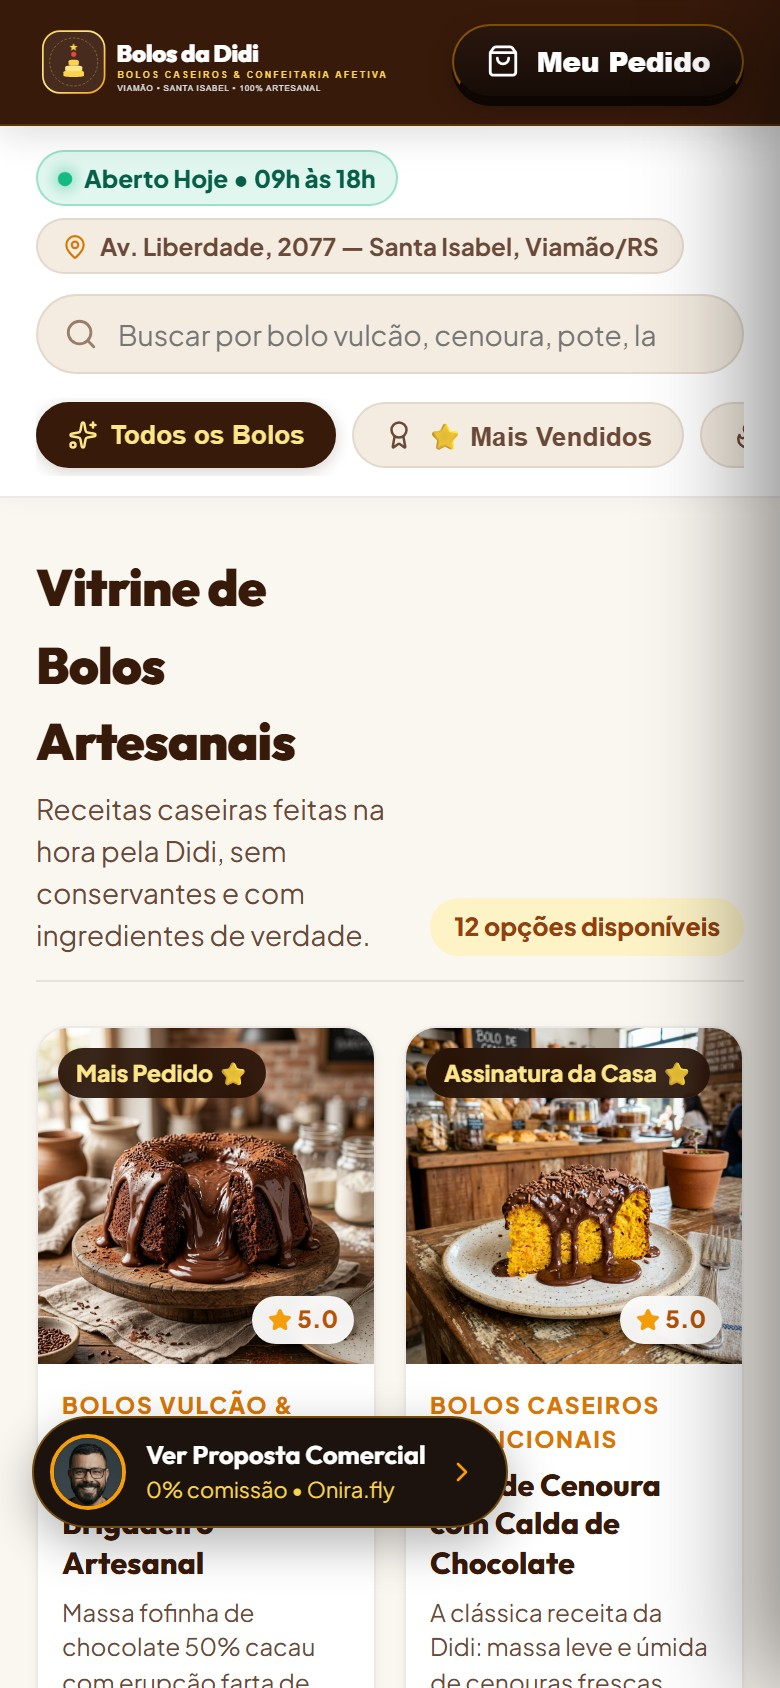
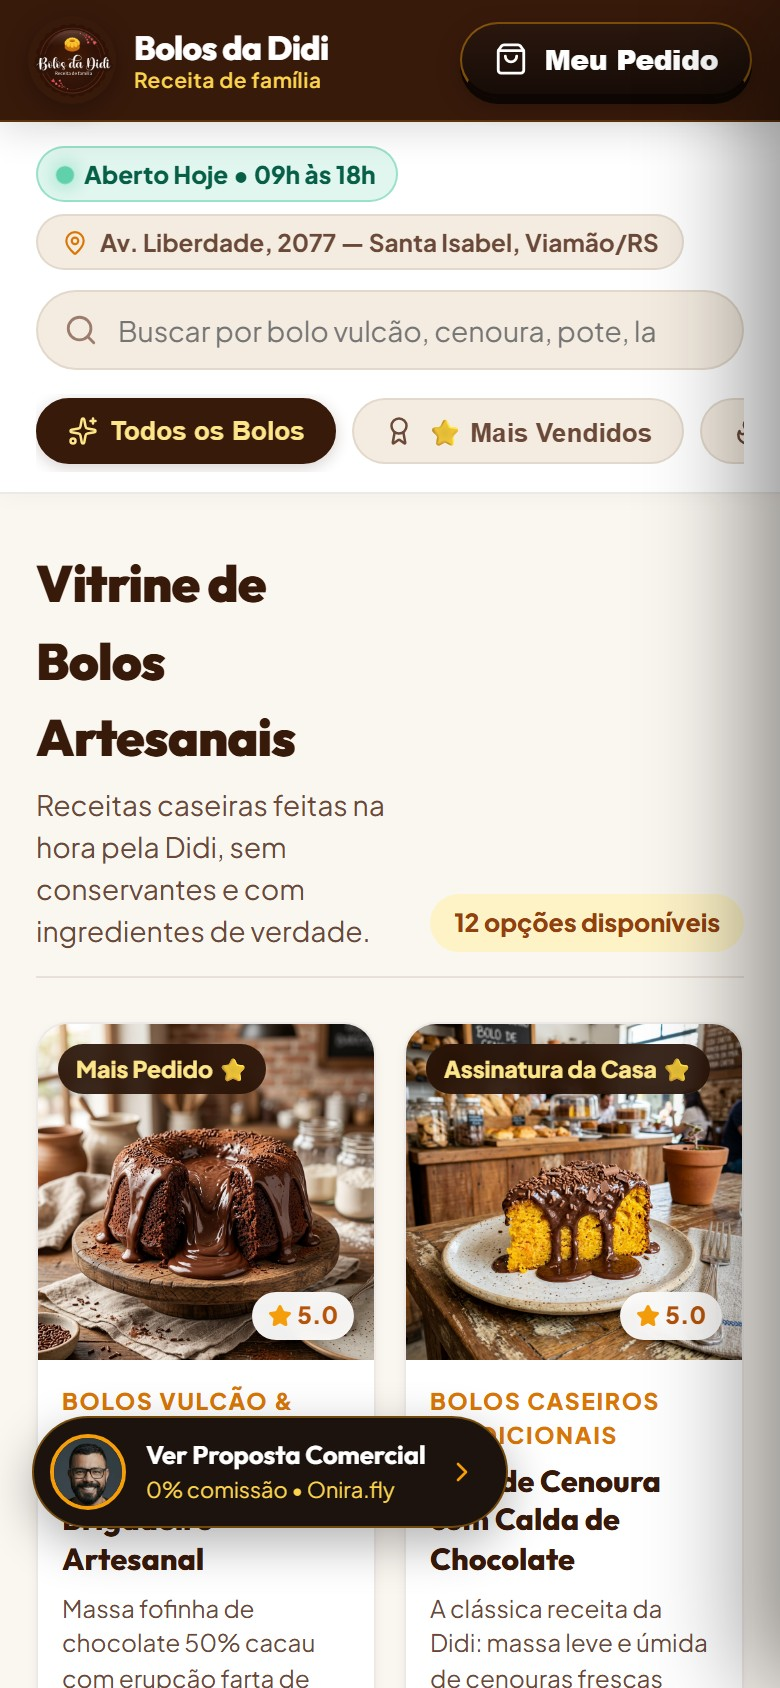
commit

diff --git a/style.css b/style.css
@@ -96,13 +96,20 @@ body {
   top: 0;
   z-index: 100;
   box-shadow: 0 4px 18px rgba(0, 0, 0, 0.14);
+  transition: transform 0.32s cubic-bezier(0.16, 1, 0.3, 1), box-shadow 0.25s ease;
+  will-change: transform;
+}
+
+.header-main.header-hidden {
+  transform: translateY(-100%);
+  box-shadow: none;
 }
 
 .header-container {
   display: flex;
   justify-content: space-between;
   align-items: center;
-  padding: 11px 18px;
+  padding: 10px 18px;
   gap: 12px;
 }
 
@@ -111,13 +118,46 @@ body {
   align-items: center;
   text-decoration: none;
   flex-shrink: 0;
+  gap: 11px;
 }
 
 .brand-logo-img {
-  height: 48px;
-  width: auto;
-  max-width: 240px;
-  object-fit: contain;
+  height: 50px;
+  width: 50px;
+  border-radius: 50%;
+  object-fit: cover;
+  box-shadow: 0 3px 12px rgba(0, 0, 0, 0.3);
+  transition: transform 0.2s ease;
+  flex-shrink: 0;
+}
+
+.brand-link:hover .brand-logo-img {
+  transform: scale(1.05);
+}
+
+.brand-identity {
+  display: flex;
+  flex-direction: column;
+  justify-content: center;
+  line-height: 1.15;
+}
+
+.brand-name {
+  font-family: var(--font-heading);
+  font-size: 1.16rem;
+  font-weight: 800;
+  color: #FFFFFF;
+  letter-spacing: -0.02em;
+  white-space: nowrap;
+}
+
+.brand-tagline {
+  font-family: var(--font-body);
+  font-size: 0.72rem;
+  font-weight: 600;
+  color: #FCD34D;
+  letter-spacing: 0.03em;
+  white-space: nowrap;
 }
 
 .header-actions {
@@ -212,6 +252,11 @@ body {
   top: 71px;
   z-index: 90;
   box-shadow: 0 2px 10px rgba(0, 0, 0, 0.03);
+  transition: top 0.32s cubic-bezier(0.16, 1, 0.3, 1);
+}
+
+body.header-is-hidden .catalog-filters-section {
+  top: 0 !important;
 }
 
 .search-top-badges {
@@ -1469,9 +1514,21 @@ body {
    RESPONSIVIDADE MOBILE FIRST
    ========================================================================== */
 @media (max-width: 768px) {
+  .header-container {
+    padding: 8px 14px;
+  }
+  .brand-link {
+    gap: 9px;
+  }
   .brand-logo-img {
-    height: 40px;
-    max-width: 180px;
+    height: 44px;
+    width: 44px;
+  }
+  .brand-name {
+    font-size: 1.05rem;
+  }
+  .brand-tagline {
+    font-size: 0.65rem;
   }
   .search-top-badges {
     flex-direction: column;
@@ -1479,7 +1536,7 @@ body {
     gap: 6px;
   }
   .catalog-filters-section {
-    top: 62px;
+    top: 61px;
   }
   .products-grid {
     grid-template-columns: repeat(auto-fill, minmax(165px, 1fr));

diff --git a/index.html b/index.html
@@ -15,6 +15,11 @@
   <meta property="og:image" content="assets/bolo_vulcao_chocolate.jpg">
   <meta property="og:locale" content="pt_BR">
 
+  <!-- Favicon & Touch Icon -->
+  <link rel="icon" type="image/png" sizes="32x32" href="assets/favicon-didi.png">
+  <link rel="icon" type="image/png" sizes="64x64" href="assets/favicon-didi-64.png">
+  <link rel="apple-touch-icon" href="assets/logo_didi_oficial.png">
+
   <!-- Google Fonts: Outfit & Plus Jakarta Sans -->
   <link rel="preconnect" href="https://fonts.googleapis.com">
   <link rel="preconnect" href="https://fonts.gstatic.com" crossorigin>
@@ -23,7 +28,7 @@
   <!-- Lucide Icons -->
   <script src="https://unpkg.com/lucide@latest"></script>
 
-  <link rel="stylesheet" href="style.css?v=20261009-v2">
+  <link rel="stylesheet" href="style.css?v=20261021-v3">
 </head>
 <body class="theme-onirafly">
 
@@ -33,9 +38,13 @@
        ========================================================================== -->
   <header class="header-main" id="header">
     <div class="container header-container">
-      <!-- Lado Esquerdo: Logo da Marca -->
+      <!-- Lado Esquerdo: Logo da Marca Oficial Bolos da Didi -->
       <a href="index.html" class="brand-link" aria-label="Bolos da Didi Página Inicial">
-        <img src="assets/logo-white.svg" alt="Bolos da Didi Logo Oficial" class="brand-logo-img">
+        <img src="assets/logo_didi_oficial.png" alt="Bolos da Didi Logo Oficial" class="brand-logo-img">
+        <div class="brand-identity">
+          <span class="brand-name">Bolos da Didi</span>
+          <span class="brand-tagline">Receita de família</span>
+        </div>
       </a>
 
       <!-- Lado Direito: Apenas Lixeira Outline e Botão Meu Pedido -->
@@ -368,7 +377,7 @@
   <!-- Toast Notification -->
   <div class="toast-notification" id="toast-notification"></div>
 
-  <script src="app.js?v=20261009-v2"></script>
+  <script src="app.js?v=20261021-v3"></script>
   <script>
     if (window.lucide) {
       lucide.createIcons();

diff --git a/proposta.html b/proposta.html
@@ -28,8 +28,13 @@
     <!-- Lucide Icons -->
     <script src="https://unpkg.com/lucide@latest"></script>
 
+    <!-- Favicon & Touch Icon -->
+    <link rel="icon" type="image/png" sizes="32x32" href="assets/favicon-didi.png">
+    <link rel="icon" type="image/png" sizes="64x64" href="assets/favicon-didi-64.png">
+    <link rel="apple-touch-icon" href="assets/logo_didi_oficial.png">
+
     <!-- Stylesheet -->
-    <link rel="stylesheet" href="style-proposta.css?v=3.2">
+    <link rel="stylesheet" href="style-proposta.css?v=3.5">
 
     <!-- Schema.org JSON-LD -->
     <script type="application/ld+json">
@@ -72,6 +77,7 @@
             </a>
 
             <div class="header-center-tagline">
+                <img src="assets/logo_didi_oficial.png" alt="Bolos da Didi" class="tagline-client-seal">
                 <span>Bolos da Didi • Canal Próprio Oficial</span>
             </div>
 
@@ -95,6 +101,7 @@
                 <!-- Coluna Esquerda: Textos & Conversão -->
                 <div class="hero-content">
                     <div class="eyebrow-pill">
+                        <img src="assets/logo_didi_oficial.png" alt="Bolos da Didi" class="eyebrow-client-seal">
                         <span class="pulse-dot"></span>
                         <span>OPERAÇÃO INTEGRADA &amp; CANAL PRÓPRIO</span>
                     </div>
@@ -938,7 +945,7 @@
     </a>
 
     <!-- Scripts da Aplicação -->
-    <script src="app-proposta.js?v=3.4.0"></script>
+    <script src="app-proposta.js?v=3.5.0"></script>
     <script>
         // Inicializa ícones Lucide
         if (window.lucide) {

diff --git a/app.js b/app.js
@@ -613,3 +613,37 @@ function showToast(msg) {
     toast.classList.remove('active');
   }, 2600);
 }
+
+// Auto-hide Cabeçalho Inteligente no Mobile (Recolhe ao Rolar para Baixo e Revela ao Subir)
+(function initHeaderScroll() {
+  const header = document.getElementById('header');
+  if (!header) return;
+
+  let lastScrollY = window.scrollY;
+  let isTicking = false;
+  const threshold = 8;
+
+  window.addEventListener('scroll', () => {
+    if (!isTicking) {
+      window.requestAnimationFrame(() => {
+        const currentScrollY = window.scrollY;
+        const delta = currentScrollY - lastScrollY;
+
+        if (currentScrollY <= 30) {
+          header.classList.remove('header-hidden');
+          document.body.classList.remove('header-is-hidden');
+        } else if (delta > threshold && currentScrollY > 70) {
+          header.classList.add('header-hidden');
+          document.body.classList.add('header-is-hidden');
+        } else if (delta < -threshold) {
+          header.classList.remove('header-hidden');
+          document.body.classList.remove('header-is-hidden');
+        }
+
+        lastScrollY = currentScrollY;
+        isTicking = false;
+      });
+      isTicking = true;
+    }
+  }, { passive: true });
+})();

diff --git a/app-proposta.js b/app-proposta.js
@@ -524,4 +524,35 @@ function initMomentCards() {
     });
 }
 
+// Auto-hide Cabeçalho Inteligente no Scroll (Recolhe ao Rolar para Baixo e Revela ao Subir)
+(function initProposalHeaderScroll() {
+    const header = document.querySelector('.site-header');
+    if (!header) return;
+
+    let lastScrollY = window.scrollY;
+    let isTicking = false;
+    const threshold = 8;
+
+    window.addEventListener('scroll', () => {
+        if (!isTicking) {
+            window.requestAnimationFrame(() => {
+                const currentScrollY = window.scrollY;
+                const delta = currentScrollY - lastScrollY;
+
+                if (currentScrollY <= 40) {
+                    header.classList.remove('header-hidden');
+                } else if (delta > threshold && currentScrollY > 80) {
+                    header.classList.add('header-hidden');
+                } else if (delta < -threshold) {
+                    header.classList.remove('header-hidden');
+                }
+
+                lastScrollY = currentScrollY;
+                isTicking = false;
+            });
+            isTicking = true;
+        }
+    }, { passive: true });
+})();
+
 

diff --git a/style-proposta.css b/style-proposta.css
@@ -401,6 +401,34 @@ img, svg {
     z-index: 1000;
     display: flex;
     align-items: center;
+    transition: transform 0.32s cubic-bezier(0.16, 1, 0.3, 1);
+    will-change: transform;
+}
+
+.site-header.header-hidden {
+    transform: translateY(-100%);
+}
+
+.tagline-client-seal {
+    width: 26px;
+    height: 26px;
+    border-radius: 50%;
+    object-fit: cover;
+    margin-right: 8px;
+    box-shadow: 0 2px 6px rgba(0, 0, 0, 0.4);
+    display: inline-block;
+    vertical-align: middle;
+}
+
+.eyebrow-client-seal {
+    width: 22px;
+    height: 22px;
+    border-radius: 50%;
+    object-fit: cover;
+    margin-right: 6px;
+    box-shadow: 0 2px 6px rgba(0, 0, 0, 0.35);
+    display: inline-block;
+    vertical-align: middle;
 }
 
 .nav-container {
